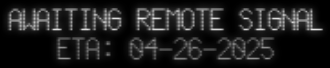
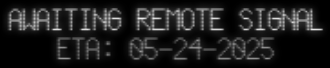
Delayed VoltRhythm release, sorry.

Changed region(s): [[0.5455, 0.5294, 0.6364, 0.8824], [0.4242, 0.5294, 0.4848, 0.8824]]

diff --git a/voltrhythm/index.html b/voltrhythm/index.html
@@ -50,7 +50,7 @@
     </body>
 
     <script>
-        let time = 1745661600000;
+        let time = Date.UTC(2025, 4, 24, 22, 0, 0, 0);
         let delay = time-Date.now();
 
         if (delay <= 0) {
